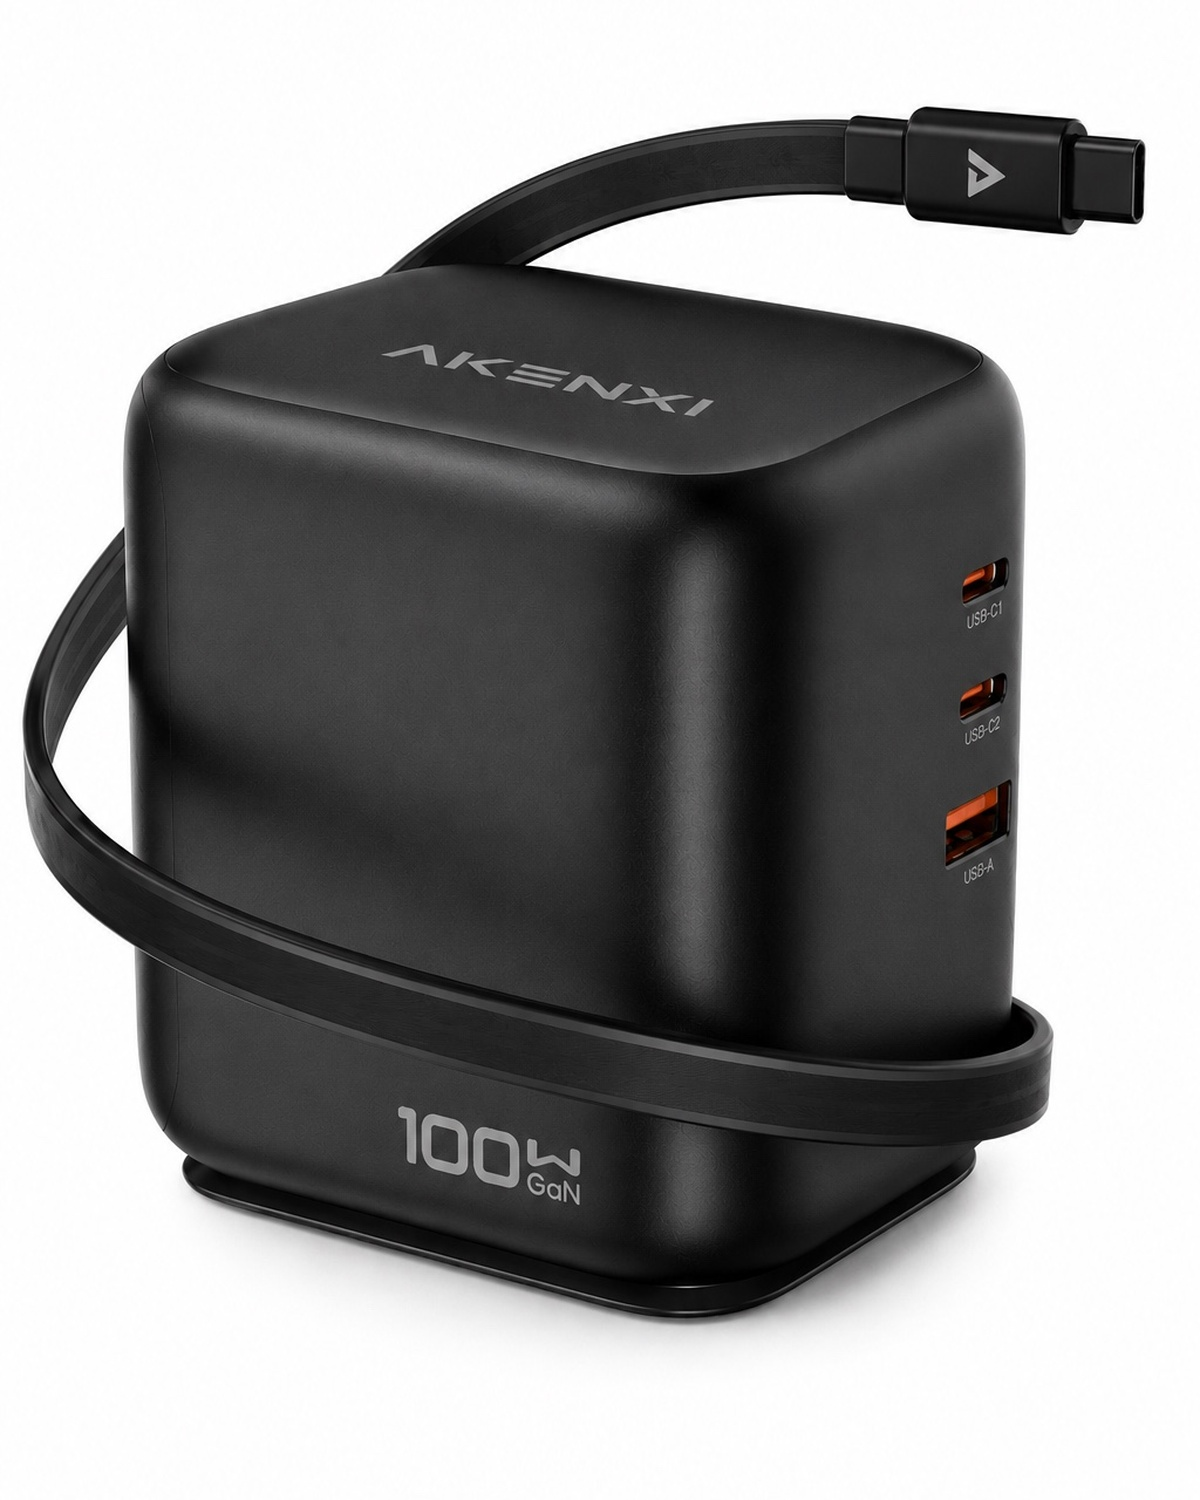
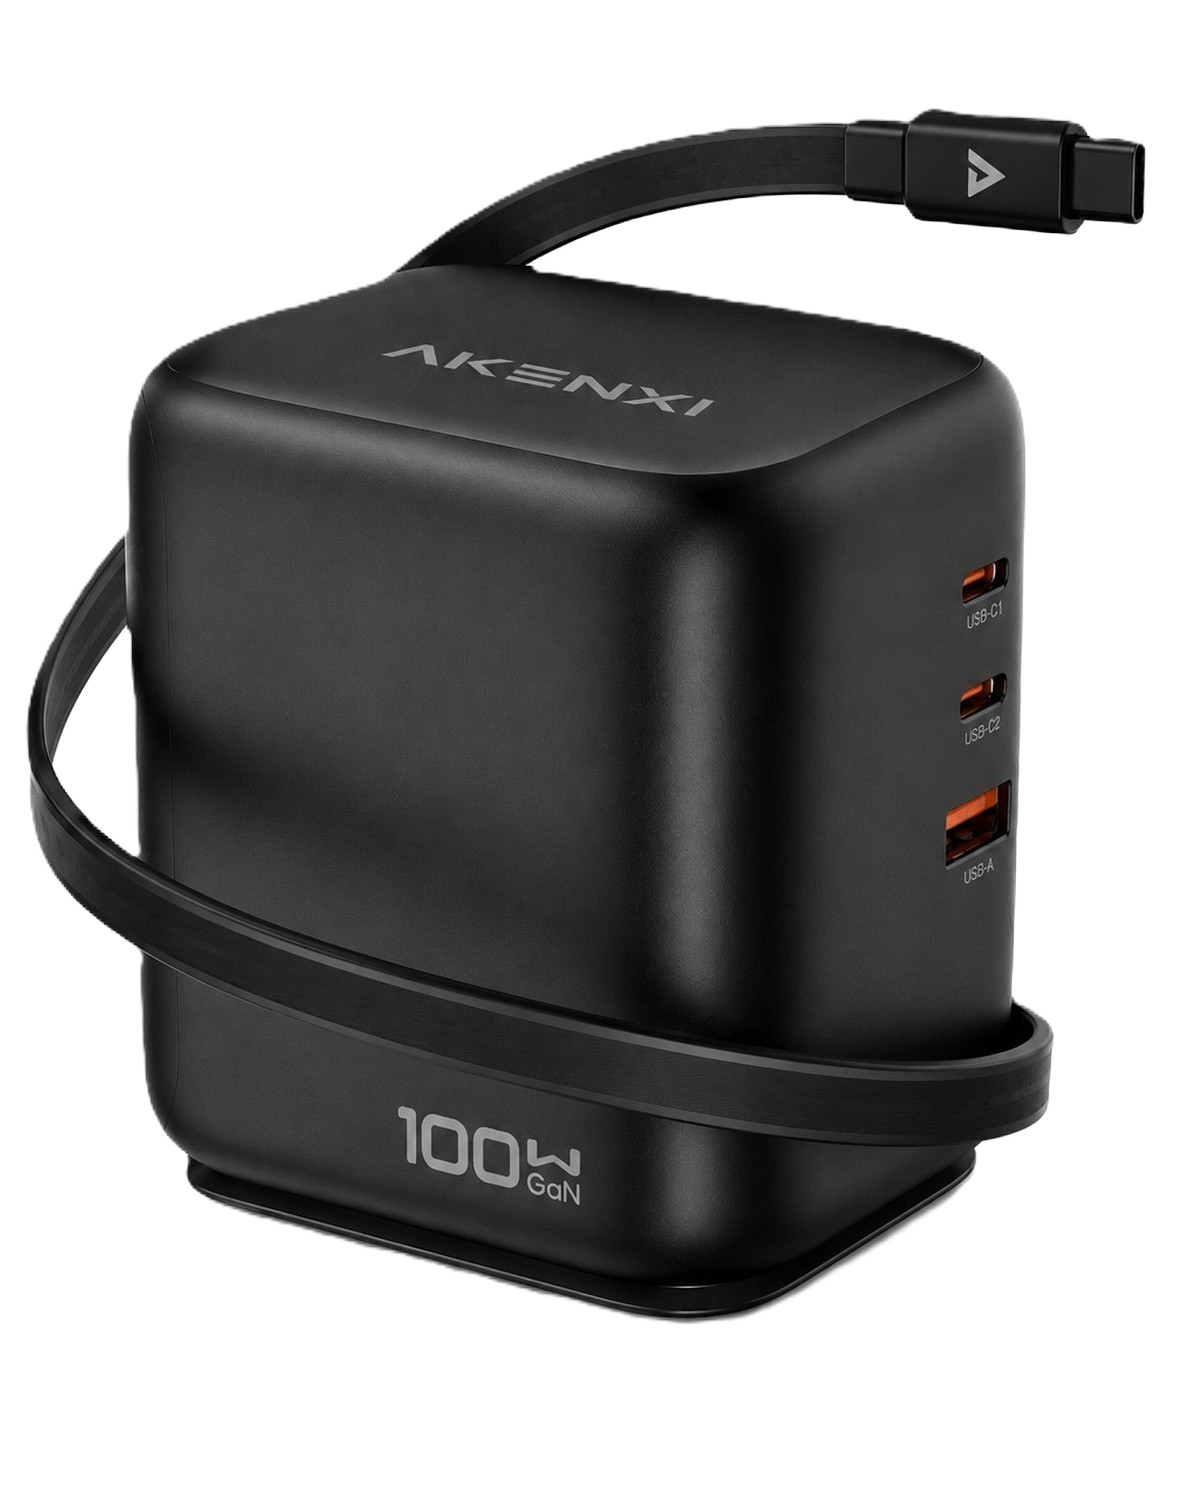
fix hero media

diff --git a/html/css/style.css b/html/css/style.css
@@ -327,44 +327,27 @@ svg { width: 100%; height: 100%; }
 
 .hero-slide-media {
   position: relative;
-  height: min(64vh, 620px);
+  height: min(72vh, 700px);
+  overflow: hidden;   /* cắt phần ảnh vượt khung khi scale lên ở desktop, xem dưới */
   pointer-events: auto;   /* vùng kéo-xoay mô hình 3D, tách riêng khỏi cột chữ */
 }
 
-/* Slide ảnh sản phẩm (không phải 3D): ảnh sản phẩm có nền trắng gần như tuyệt
-   đối (đã đo màu thật: #fefefe/#fdfdfd/#ffffff) — giữ nguyên ảnh, KHÔNG mask/
-   không khung. Thay vào đó đổi hẳn nền của chính slide hero (desktop) từ
-   graphite tối sang trùng màu trắng của ảnh, nên ranh giới biến mất tự nhiên
-   thay vì tương phản đen/trắng gượng gạo. Chữ trên slide này đổi sang màu tối
-   cho hợp nền sáng (chỉ áp dụng cho slide ảnh — slide "Brand" 3D vẫn nền tối
-   như cũ). Mobile giữ nguyên hoàn toàn (không đổi). */
+/* Slide ảnh sản phẩm (không phải 3D): ảnh đã tách nền (PNG trong suốt, xem
+   PHOTO_CAMPAIGNS.imageDesktop trong js/hero.js) nên có thể đặt trực tiếp lên
+   nền graphite giống hệt slide "Brand" mà không lộ hình chữ nhật trắng nào —
+   đồng bộ màu nền giữa mọi campaign. Ảnh phóng to nhẹ (scale) để đẩy các mép
+   ảnh gốc (vốn được crop sẵn theo khung vuông cho social, không phải cho hero
+   rộng) ra ngoài vùng nhìn thấy, tránh lộ khuyết điểm crop có sẵn. Mobile giữ
+   nguyên hoàn toàn (ảnh gốc, không đổi). */
 @media (min-width: 981px) {
   .hero-slide-media.is-photo img {
     object-fit: contain;
     padding: 4%;
+    transform: scale(1.14);
   }
 
   .hero-slide.is-photo-slide {
-    background:
-      radial-gradient(ellipse 46% 60% at 6% 8%, rgba(28, 31, 34, .5), transparent 70%),
-      radial-gradient(ellipse 42% 55% at 96% 100%, rgba(28, 31, 34, .38), transparent 70%),
-      #fff;
-  }
-
-  .hero-slide.is-photo-slide::after { content: none; }
-
-  .hero-slide.is-photo-slide .hero-copy { color: var(--text); }
-
-  .hero-slide.is-photo-slide .hero-copy .display { text-shadow: none; }
-
-  .hero-slide.is-photo-slide .hero-tag {
-    border-color: rgba(51, 62, 76, .22);
-    color: var(--text);
-  }
-
-  .hero-slide.is-photo-slide .hero-sub {
-    color: var(--text-muted);
-    text-shadow: none;
+    background: radial-gradient(ellipse 62% 60% at 66% 46%, #2b3138 0%, var(--graphite) 60%, #0d0f12 100%);
   }
 }
 

diff --git a/html/js/hero.js b/html/js/hero.js
@@ -16,8 +16,8 @@
     {
       tag: "Sạc nhanh",
       headline: "Power<br>without limits.",
-      image: "images/products/akenxi_charger100W_01/AKENXI_100W_Web_01.jpg",
-      imageDesktop: "images/products/akenxi_charger100W_01/AKENXI_100W_Web_01_cutout.png",
+      image: "images/products/akenxi_charger100W_01/AKENXI_100W_Web_02.jpg",
+      imageDesktop: "images/products/akenxi_charger100W_01/AKENXI_100W_Web_02_cutout.png",
       alt: "AKENXI — củ sạc nhanh 100W",
       ctaText: "Khám phá Sạc nhanh",
       ctaHref: "san-pham.html",
@@ -25,9 +25,9 @@
     {
       tag: "New Product",
       headline: "Coming<br>soon.",
-      image: "images/products/akenxi_cable02/AKENXI_Cable_Web_01_1600x1600.jpg",
-      imageDesktop: "images/products/akenxi_cable02/AKENXI_Cable_Web_01_1600x1600_cutout.png",
-      alt: "AKENXI — sản phẩm sắp ra mắt",
+      image: "images/products/akenxi_charger02/AKENXI_product_1.jpeg",
+      imageDesktop: "images/products/akenxi_charger02/AKENXI_product_1.png",
+      alt: "AKENXI — pin sạc dự phòng MagSafe sắp ra mắt",
       ctaText: "",
       ctaHref: "",
     },
